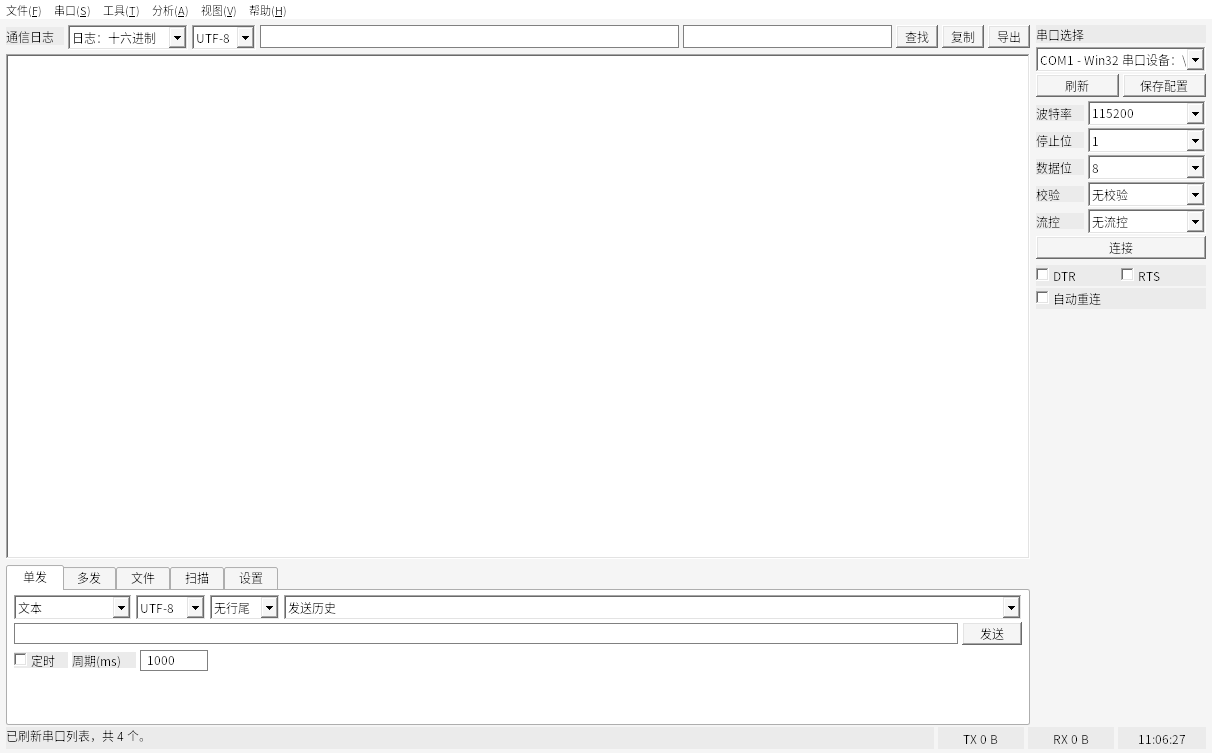
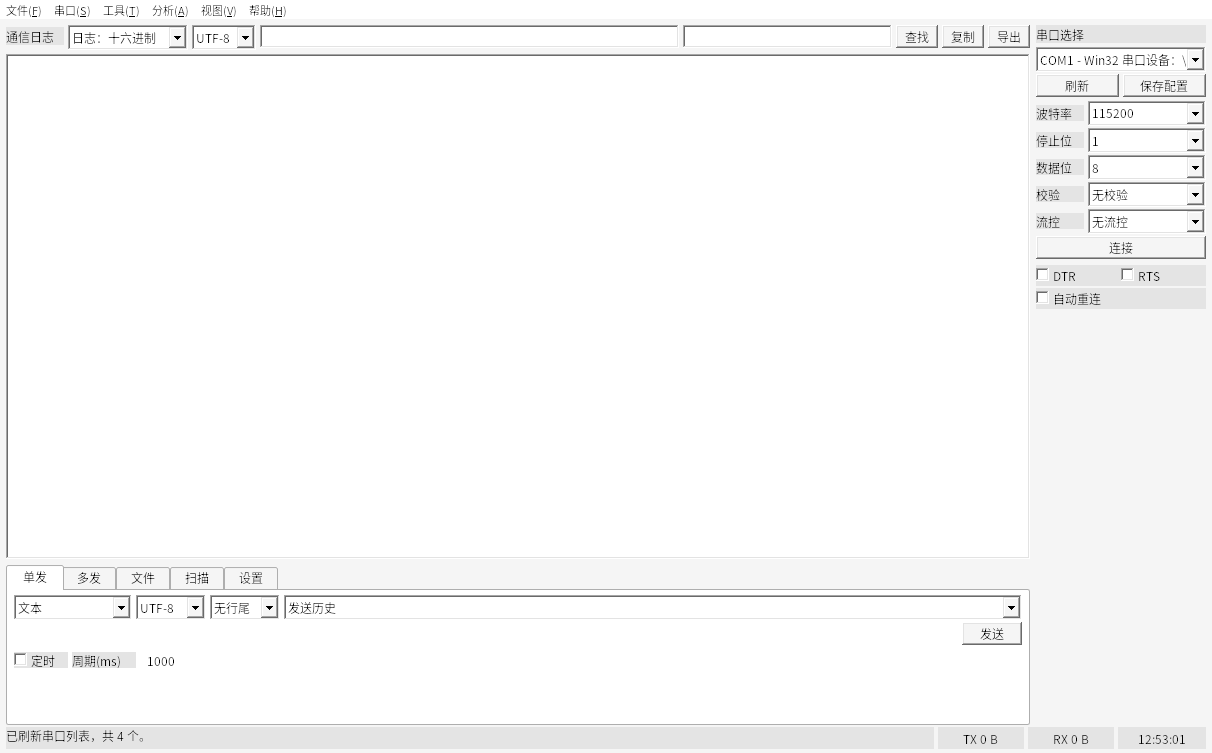
fix: restore native edit controls

diff --git a/src/win32/main_window.cpp b/src/win32/main_window.cpp
@@ -54,10 +54,8 @@ constexpr UINT kModbusScanDoneMessage = WM_APP + 14;
 constexpr UINT kModbusScanProgressMessage = WM_APP + 15;
 constexpr int kFileSendChunkBytes = 1024;
 constexpr std::size_t kDefaultLogVisibleChars = 350000;
-constexpr COLORREF kFormBackgroundColor = RGB(235, 235, 235);
-constexpr COLORREF kInputBorderColor = RGB(128, 128, 128);
+constexpr COLORREF kFormBackgroundColor = RGB(228, 228, 228);
 constexpr COLORREF kPlaceholderTextColor = RGB(92, 92, 92);
-constexpr UINT_PTR kInputBorderSubclassId = 1001;
 
 const wchar_t* tx(T id) {
     return uiText(id);
@@ -143,45 +141,6 @@ COLORREF logColorForKind(NativeLogKind kind, int themeIndex) {
 HBRUSH formBackgroundBrush() {
     static HBRUSH brush = CreateSolidBrush(kFormBackgroundColor);
     return brush;
-}
-
-HBRUSH inputBorderBrush() {
-    static HBRUSH brush = CreateSolidBrush(kInputBorderColor);
-    return brush;
-}
-
-void drawInputBorder(HWND control) {
-    HDC dc = GetWindowDC(control);
-    if (dc == nullptr) {
-        return;
-    }
-    RECT rect = {};
-    GetWindowRect(control, &rect);
-    OffsetRect(&rect, -rect.left, -rect.top);
-    FrameRect(dc, &rect, inputBorderBrush());
-    ReleaseDC(control, dc);
-}
-
-LRESULT CALLBACK inputBorderSubclassProc(
-    HWND control,
-    UINT message,
-    WPARAM wParam,
-    LPARAM lParam,
-    UINT_PTR,
-    DWORD_PTR) {
-    const LRESULT result = DefSubclassProc(control, message, wParam, lParam);
-    switch (message) {
-    case WM_NCPAINT:
-    case WM_PAINT:
-    case WM_ENABLE:
-    case WM_SETFOCUS:
-    case WM_KILLFOCUS:
-        drawInputBorder(control);
-        break;
-    default:
-        break;
-    }
-    return result;
 }
 
 struct NativeRect {
@@ -889,10 +848,6 @@ void applyClassicControlChrome(HWND control) {
     } else if (hasWindowClass(control, L"ComboBox")) {
         SendMessageW(control, CB_SETMINVISIBLE, 10, 0);
     }
-}
-
-bool isWorkbenchInputEdit(HWND control) {
-    return control != nullptr && hasWindowClass(control, L"Edit");
 }
 
 void addComboItem(HWND combo, const wchar_t* text, LPARAM data) {
@@ -2260,12 +2215,7 @@ void NativeMainWindow::layoutControls(int width, int height) {
     const int checkOffsetY = std::max(0, (row - 16) / 2);
     const int progressOffsetY = compact ? 3 : 4;
     const int progressHeight = compact ? 14 : 16;
-    const int formFieldGap = compact ? 3 : 4;
-    const int workEditHeight = std::max(18, row - 2);
-    const int workEditOffsetY = std::max(0, (row - workEditHeight) / 2);
-    const auto moveWorkbenchEdit = [&](HWND control, int editX, int editY, int editWidth) {
-        MoveWindow(control, editX, editY + workEditOffsetY, editWidth, workEditHeight, TRUE);
-    };
+    const int formFieldGap = compact ? 2 : 3;
     MoveWindow(
         workPageBackground_,
         pageBackgroundX,
@@ -2303,7 +2253,7 @@ void NativeMainWindow::layoutControls(int width, int height) {
     y = contentY;
     const int sendButtonWidth = std::max(1, std::min(compact ? 54 : 60, pageW / 6));
     const int sendEditWidth = std::max(1, pageW - sendButtonWidth - gap);
-    moveWorkbenchEdit(sendEdit_, x, y, sendEditWidth);
+    MoveWindow(sendEdit_, x, y, sendEditWidth, row, TRUE);
     MoveWindow(sendButton_, x + sendEditWidth + gap, y, sendButtonWidth, row, TRUE);
     const bool sendContentVisible = y + row <= pageBottom && pageW >= 96;
     const int timedX = pageX;
@@ -2313,7 +2263,7 @@ void NativeMainWindow::layoutControls(int width, int height) {
     const int periodEditWidth = compact ? 60 : 68;
     MoveWindow(timedSendCheck_, timedX, timedY + checkOffsetY, timedCheckWidth, 16, TRUE);
     MoveWindow(timedPeriodLabel_, timedX + timedCheckWidth + gap, timedY + labelOffsetY, periodLabelWidth, labelHeight, TRUE);
-    moveWorkbenchEdit(timedPeriodEdit_, timedX + timedCheckWidth + gap + periodLabelWidth + formFieldGap, timedY, periodEditWidth);
+    MoveWindow(timedPeriodEdit_, timedX + timedCheckWidth + gap + periodLabelWidth + formFieldGap, timedY, periodEditWidth, row, TRUE);
 
     int quickColumns = 2;
     if (pageW >= 620) {
@@ -2334,7 +2284,7 @@ void NativeMainWindow::layoutControls(int width, int height) {
         const int slotY = contentY + slotRow * quickSlotHeight;
         const int editWidth = std::max(1, quickColumnWidth - quickButtonWidth - gap);
         quickSlotVisible[index] = slotY + row <= pageBottom && quickColumnWidth > quickButtonWidth + gap;
-        moveWorkbenchEdit(quickSendEdits_[index], slotX, slotY, editWidth);
+        MoveWindow(quickSendEdits_[index], slotX, slotY, editWidth, row, TRUE);
         MoveWindow(quickSendButtons_[index], slotX + editWidth + gap, slotY, quickButtonWidth, row, TRUE);
     }
 
@@ -2348,7 +2298,7 @@ void NativeMainWindow::layoutControls(int width, int height) {
     const int filePathWidth = std::max(1, pageW - fileLabelWidth - browseWidth - fileSendWidth - fileStopWidth - gap * 4 - formFieldGap);
     MoveWindow(filePathLabel_, x, y + labelOffsetY, fileLabelWidth, labelHeight, TRUE);
     x += fileLabelWidth + formFieldGap;
-    moveWorkbenchEdit(filePathEdit_, x, y, filePathWidth);
+    MoveWindow(filePathEdit_, x, y, filePathWidth, row, TRUE);
     x += filePathWidth + gap;
     MoveWindow(fileBrowseButton_, x, y, browseWidth, row, TRUE);
     x += browseWidth + gap;
@@ -2388,7 +2338,7 @@ void NativeMainWindow::layoutControls(int width, int height) {
     const bool scanParameterRowVisible = y + row <= pageBottom;
     MoveWindow(scanSlaveLabel_, x, y + labelOffsetY, shortLabelWidth, labelHeight, TRUE);
     x += shortLabelWidth + formFieldGap;
-    moveWorkbenchEdit(scanSlaveEdit_, x, y, scanSlaveEditWidth);
+    MoveWindow(scanSlaveEdit_, x, y, scanSlaveEditWidth, row, TRUE);
     x += scanSlaveEditWidth + gap;
     MoveWindow(scanFunctionLabel_, x, y + labelOffsetY, scanFunctionLabelWidth, labelHeight, TRUE);
     x += scanFunctionLabelWidth + formFieldGap;
@@ -2396,11 +2346,11 @@ void NativeMainWindow::layoutControls(int width, int height) {
     x += scanFunctionWidth + gap;
     MoveWindow(scanStartLabel_, x, y + labelOffsetY, addressLabelWidth, labelHeight, TRUE);
     x += addressLabelWidth + formFieldGap;
-    moveWorkbenchEdit(scanStartEdit_, x, y, addressEditWidth);
+    MoveWindow(scanStartEdit_, x, y, addressEditWidth, row, TRUE);
     x += addressEditWidth + gap;
     MoveWindow(scanEndLabel_, x, y + labelOffsetY, addressLabelWidth, labelHeight, TRUE);
     x += addressLabelWidth + formFieldGap;
-    moveWorkbenchEdit(scanEndEdit_, x, y, addressEditWidth);
+    MoveWindow(scanEndEdit_, x, y, addressEditWidth, row, TRUE);
 
     y += row + gap;
     x = pageX;
@@ -2438,19 +2388,19 @@ void NativeMainWindow::layoutControls(int width, int height) {
     x += analysisSectionWidth;
     MoveWindow(targetStatic_, x, y, targetNameLabelWidth, row, TRUE);
     x += targetNameLabelWidth + formFieldGap;
-    moveWorkbenchEdit(targetLabelEdit_, x, y, targetNameEditWidth);
+    MoveWindow(targetLabelEdit_, x, y, targetNameEditWidth, row, TRUE);
     x += targetNameEditWidth + gap;
     MoveWindow(targetValueStatic_, x, y, targetValueLabelWidth, row, TRUE);
     x += targetValueLabelWidth + formFieldGap;
-    moveWorkbenchEdit(targetValueEdit_, x, y, targetValueEditWidth);
+    MoveWindow(targetValueEdit_, x, y, targetValueEditWidth, row, TRUE);
     x += targetValueEditWidth + gap;
     MoveWindow(targetUnitStatic_, x, y, targetUnitLabelWidth, row, TRUE);
     x += targetUnitLabelWidth + formFieldGap;
-    moveWorkbenchEdit(targetUnitEdit_, x, y, targetUnitEditWidth);
+    MoveWindow(targetUnitEdit_, x, y, targetUnitEditWidth, row, TRUE);
     x += targetUnitEditWidth + gap;
     MoveWindow(toleranceStatic_, x, y, toleranceLabelWidth, row, TRUE);
     x += toleranceLabelWidth + formFieldGap;
-    moveWorkbenchEdit(toleranceEdit_, x, y, toleranceEditWidth);
+    MoveWindow(toleranceEdit_, x, y, toleranceEditWidth, row, TRUE);
 
     y += row + gap;
     x = pageX;
@@ -2589,58 +2539,6 @@ void NativeMainWindow::setDefaultFonts() {
     for (HWND child = GetWindow(window_, GW_CHILD); child != nullptr; child = GetWindow(child, GW_HWNDNEXT)) {
         addControlFont(child, uiFont_);
         applyClassicControlChrome(child);
-        applyWorkbenchInputChrome(child);
-    }
-}
-
-void NativeMainWindow::applyWorkbenchInputChrome(HWND control) {
-    if (!isWorkbenchInputEdit(control)) {
-        return;
-    }
-    const auto applyInputChrome = [&]() {
-        const LONG_PTR style = GetWindowLongPtrW(control, GWL_STYLE);
-        const LONG_PTR exStyle = GetWindowLongPtrW(control, GWL_EXSTYLE);
-        const LONG_PTR desiredStyle = style | WS_BORDER;
-        const LONG_PTR desiredExStyle = exStyle & ~static_cast<LONG_PTR>(WS_EX_CLIENTEDGE);
-        if (style != desiredStyle || exStyle != desiredExStyle) {
-            SetWindowLongPtrW(control, GWL_STYLE, desiredStyle);
-            SetWindowLongPtrW(control, GWL_EXSTYLE, desiredExStyle);
-            SetWindowPos(
-                control,
-                nullptr,
-                0,
-                0,
-                0,
-                0,
-                SWP_NOMOVE | SWP_NOSIZE | SWP_NOZORDER | SWP_NOACTIVATE | SWP_FRAMECHANGED);
-        }
-        SetWindowSubclass(control, inputBorderSubclassProc, kInputBorderSubclassId, 0);
-        SendMessageW(control, EM_SETMARGINS, EC_LEFTMARGIN | EC_RIGHTMARGIN, MAKELPARAM(6, 5));
-    };
-    for (HWND workbenchEdit : {
-             logFilterEdit_,
-             logSearchEdit_,
-             sendEdit_,
-             timedPeriodEdit_,
-             filePathEdit_,
-             scanSlaveEdit_,
-             scanStartEdit_,
-             scanEndEdit_,
-             targetLabelEdit_,
-             targetValueEdit_,
-             targetUnitEdit_,
-             toleranceEdit_,
-         }) {
-        if (workbenchEdit == control) {
-            applyInputChrome();
-            return;
-        }
-    }
-    for (HWND workbenchEdit : quickSendEdits_) {
-        if (workbenchEdit == control) {
-            applyInputChrome();
-            return;
-        }
     }
 }
 

diff --git a/src/win32/main_window.h b/src/win32/main_window.h
@@ -136,7 +136,6 @@ private:
     std::wstring controlText(HWND control) const;
     std::wstring analysisInputText(HWND control) const;
     void setControlText(HWND control, const std::wstring& text);
-    void applyWorkbenchInputChrome(HWND control);
     void initializeAnalysisPlaceholders();
     void clearAnalysisPlaceholder(HWND control);
     void restoreAnalysisPlaceholder(HWND control);

diff --git a/docs/windows-native-ui-validation.md b/docs/windows-native-ui-validation.md
@@ -70,12 +70,11 @@ scripts/capture-windows-native-ui-wine.sh
 - 筛选、搜索、复制、导出可用；
 - 流式输出时上拉回看不会被强制跳回底部；
 - 手动恢复跟随后能继续显示最新条目。
-- 输入框和下拉框在表单背景上边界清楚，不会和静态标签混成一片。
-- 标签页内容区使用浅灰承托，输入框保持白底，整体应接近通信日志工具栏的输入控件层次。
+- 标签页内容区使用浅灰承托，输入框使用系统默认 Win32 外观，不做自绘边框或特殊高度补丁。
+- 输入框、下拉框和按钮在表单背景上边界清楚，不会和静态标签混成一片。
 - 同一行内标签、输入框、下拉框和按钮应在视觉上基线一致，不出现明显上下错位。
-- 标签页内 `EDIT` 输入框应与通信日志的筛选/搜索输入框属于同一视觉层级：白底、清楚边界、足够内边距，不应像普通白色文本块。
 - 标签页标题、页内静态标签和占位提示中文必须清晰可读，不应因小字号、浅灰或强制抗锯齿而显得发虚。
-- 标签页内输入框的文本应位于输入框视觉中线附近，不应出现文字与输入框外框像是不在同一行的错层感。
+- 小窗口下应通过控件优先级、宽度分配和低优先级标签让位处理空间不足，不应通过压薄输入框或自绘输入框解决。
 
 扫描：
 
